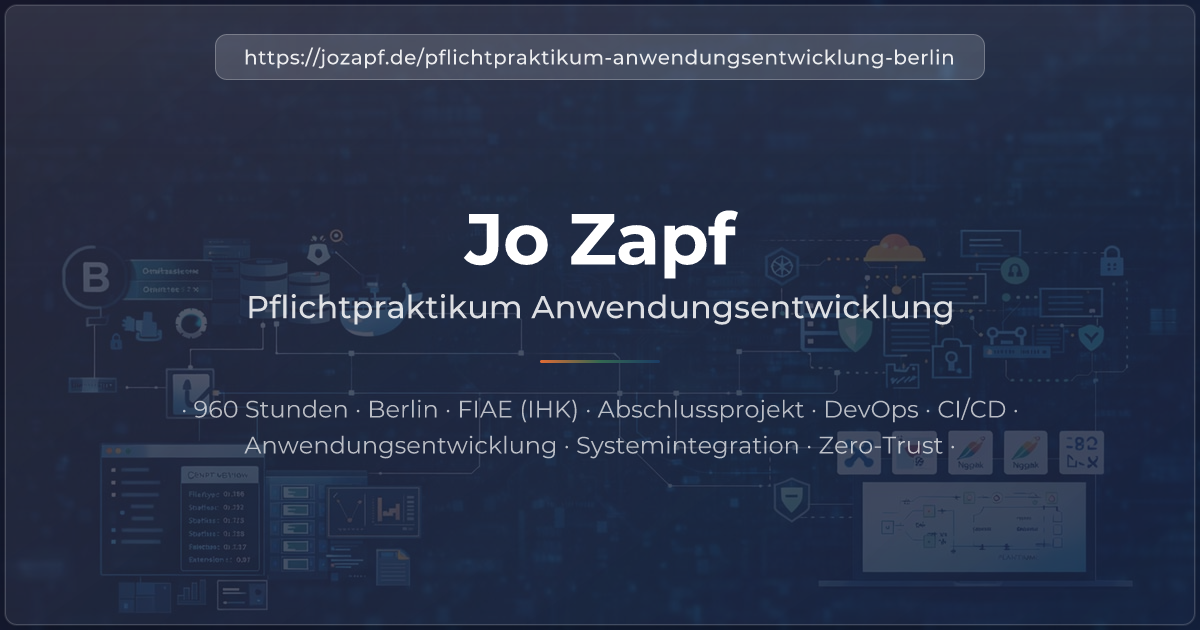
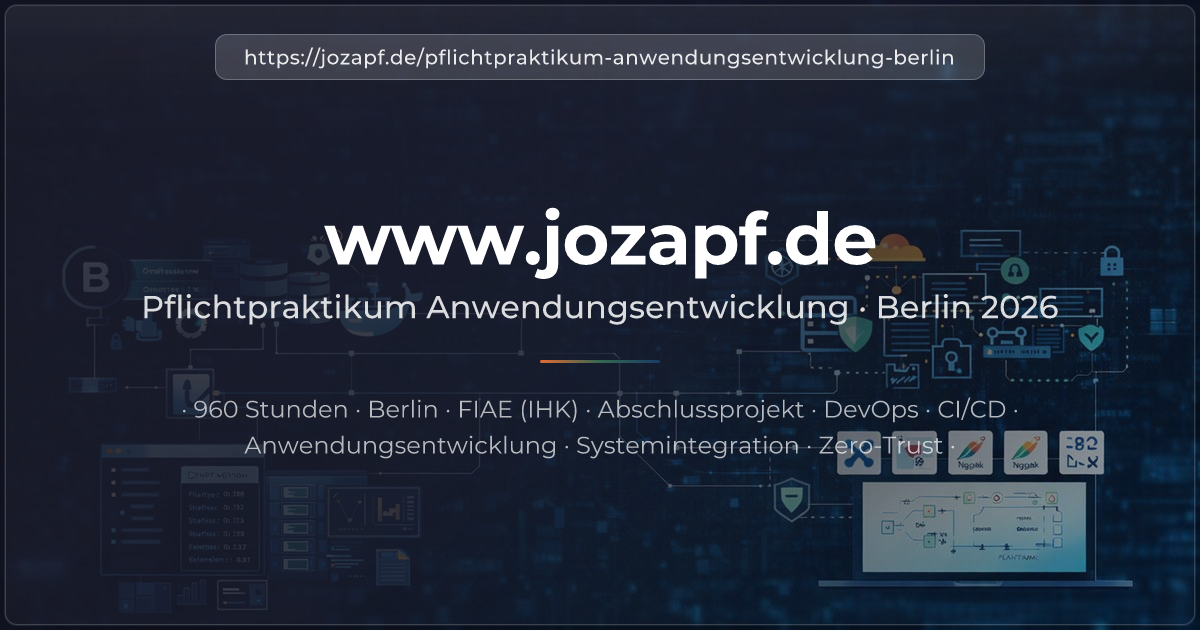
docs: updating og-images & didactic comments on scripts/generate-og-images.ts

diff --git a/scripts/generate-og-images.ts b/scripts/generate-og-images.ts
@@ -45,30 +45,30 @@ const BG_IMAGE_PRAKTIKUM = join(PROJECT_ROOT, 'assets-deploy', 'jpg', 'og_prakti
 // Content for each language
 const CONTENT = {
   de: {
-    title: 'Jo Zapf',
+    title: 'www.jozapf.de',
     subtitle: 'Webentwicklung & Anwendungsentwicklung',
     description: 'Digitale Lösungen aus Berlin: Webentwicklung, Anwendungsentwicklung, Cross-Media-Design und sichere Cloud-Infrastruktur.',
     badge: 'https://jozapf.de',
     filename: 'og-home-de.png',
   },
   en: {
-    title: 'Jo Zapf',
+    title: 'www.jozapf.de',
     subtitle: 'Web Development & Application Development',
     description: 'Digital solutions from Berlin: Web development, application development, cross-media design and secure cloud infrastructure.',
     badge: 'https://jozapf.de',
     filename: 'og-home-en.png',
   },
   'praktikum-de': {
-    title: 'Jo Zapf',
-    subtitle: 'Pflichtpraktikum Anwendungsentwicklung',
+    title: 'www.jozapf.de',
+    subtitle: 'Pflichtpraktikum Anwendungsentwicklung · Berlin 2026',
     description: '· 960 Stunden · Berlin · FIAE (IHK) · Abschlussprojekt · DevOps · CI/CD · Anwendungsentwicklung · Systemintegration · Zero-Trust ·',
     badge: 'https://jozapf.de/pflichtpraktikum-anwendungsentwicklung-berlin',
     filename: 'og-praktikum-de.png',
   },
   'praktikum-en': {
-    title: 'Jo Zapf',
-    subtitle: 'Mandatory Internship · Application Development',
-    description: '960 hours · Berlin · FIAE (IHK) · final project · DevOps · CI/CD · application development ·system integration · zero-trust ·',
+    title: 'www.jozapf.de',
+    subtitle: 'Mandatory Internship · Application Development · Berlin 2026',
+    description: '960 hours · Berlin · FIAE (IHK) · final project · DevOps · CI/CD · application development · system integration · zero-trust ·',
     badge: 'https://jozapf.de/en/pflichtpraktikum-anwendungsentwicklung-berlin',
     filename: 'og-praktikum-en.png',
   },
@@ -99,6 +99,21 @@ function loadImageAsBase64(imagePath: string): string {
 // ============================================================================
 // OG IMAGE TEMPLATE (JSX-like structure for Satori)
 // ============================================================================
+//
+// Visual layer stack (bottom to top):
+//
+//   1. Background Image    – full-bleed photo, covers entire 1200×630 canvas
+//   2. Dark Overlay         – semi-transparent gradient, dims the photo for text contrast
+//   3. Glassmorphism Card   – near-fullsize frosted card (1190×620), holds all text
+//   4. Glossy Overlay       – subtle top-half shine on the card (faux light reflection)
+//   5. Content elements     – badge, title, subtitle, divider, description
+//
+// Color system:
+//   rgba(r,g,b, ALPHA) – alpha controls opacity: 0.0 = invisible, 1.0 = fully opaque
+//   #ffffff = white, used at varying alpha levels for the glass effect
+//
+// Satori constraint: no CSS classes, no shorthand – every style must be an inline object.
+// ============================================================================
 
 interface OGContentProps {
   title: string;
@@ -108,23 +123,25 @@ interface OGContentProps {
 }
 
 function createOGTemplate(content: OGContentProps, bgImageDataUrl: string) {
-  // Satori uses React-like JSX but returns plain objects
-  // All styles must be inline objects, no CSS classes
   return {
     type: 'div',
     props: {
+      // ROOT CONTAINER – the full 1200×630 canvas
       style: {
         width: '100%',
         height: '100%',
         display: 'flex',
-        alignItems: 'center',
-        justifyContent: 'center',
-        position: 'relative',
+        alignItems: 'center',       // vertical center
+        justifyContent: 'center',   // horizontal center
+        position: 'relative',       // anchor for absolute children
         fontFamily: 'Montserrat',
-        overflow: 'hidden',
+        overflow: 'hidden',         // clip anything outside canvas
       },
       children: [
-        // Background Image (the abstract shapes motif)
+
+        // ── LAYER 1: BACKGROUND IMAGE ──────────────────────────────────
+        // Fills entire canvas. objectFit:'cover' crops to fit (no distortion).
+        // Which image is used depends on bgMap in main() – home vs praktikum.
         {
           type: 'img',
           props: {
@@ -139,7 +156,18 @@ function createOGTemplate(content: OGContentProps, bgImageDataUrl: string) {
             },
           },
         },
-        // Dark overlay for better text contrast
+
+        // ── LAYER 2: DARK OVERLAY ──────────────────────────────────────
+        // Semi-transparent gradient over the photo. Makes white text readable.
+        // Direction: 135deg = top-left → bottom-right diagonal.
+        //
+        // Color stops:
+        //   rgba(26,26,46, 0.75)  – dark navy,    75% opaque (top-left, lightest)
+        //   rgba(22,33,62, 0.85)  – dark blue,    85% opaque (center)
+        //   rgba(15,52,96, 0.85)  – deeper blue,  85% opaque (bottom-right, darkest)
+        //
+        // ↑ Increase alpha values → darker overlay → more contrast, less photo visible.
+        // ↓ Decrease alpha values → lighter overlay → more photo visible, less contrast.
         {
           type: 'div',
           props: {
@@ -149,31 +177,46 @@ function createOGTemplate(content: OGContentProps, bgImageDataUrl: string) {
               left: 0,
               right: 0,
               bottom: 0,
-              background: 'linear-gradient(135deg, rgba(26,26,46,0.75) 0%, rgba(22,33,62,0.85) 100%, rgba(15,52,96,0.85) 100%)',
+              background: 'linear-gradient(135deg, rgba(19, 19, 34, 0.85) 50%, rgba(0, 0, 0, 0.25) 100%, rgba(15,52,96,0.85) 100%)',
             },
           },
         },
-        // Main Card
+
+        // ── LAYER 3: GLASSMORPHISM CARD ────────────────────────────────
+        // A frosted-glass card that sits centered on the canvas.
+        // Nearly fullsize (1190×620 inside 1200×630) – 5px visible edge on each side.
         {
           type: 'div',
           props: {
             style: {
-              width: 1190,
-              height: 620,
-              borderRadius: 12,
-              padding: '48px 56px',
+              width: 1190,                // card width in px
+              height: 620,                // card height in px
+              borderRadius: 12,           // rounded corners
+              padding: '48px 56px',       // inner spacing (top/bottom, left/right)
               display: 'flex',
-              flexDirection: 'column',
-              alignItems: 'center',
-              justifyContent: 'center',
-              position: 'relative',
-              // Glass-morphism card
-              background: 'linear-gradient(145deg, rgba(255,255,255,0.075) 0%, rgba(255,255,255,0.01) 100%)',
+              flexDirection: 'column',    // stack children vertically
+              alignItems: 'center',       // center children horizontally
+              justifyContent: 'center',   // center children vertically
+              position: 'relative',       // anchor for glossy overlay + badge
+
+              // Card fill: white at 7.5% → 1% opacity = barely visible frosted tint
+              // 145deg = top-left to bottom-right, slightly steeper than the dark overlay
+              background: 'linear-gradient(145deg, rgba(255,255,255,0.035) 0%, rgba(255,255,255,0.01) 100%)',
+
+              // Card border: white at 18% opacity = faint edge line
               border: '1px solid rgba(255,255,255,0.18)',
+
+              // Two shadows stacked:
+              //   1) Deep drop shadow: black 50% opacity, 25px blur, pushed 50px down
+              //   2) Thin inner glow: white 10% opacity, 1px solid ring
               boxShadow: '0 25px 50px -12px rgba(0,0,0,0.5), 0 0 0 1px rgba(255,255,255,0.1)',
             },
             children: [
-              // Glossy overlay (top shine)
+
+              // ── LAYER 4: GLOSSY OVERLAY ──────────────────────────────
+              // Covers the top 50% of the card. Simulates light hitting a glass surface.
+              // Gradient: white at 5% opacity at top → 2% at 35% height → fully transparent.
+              // Increase 0.05/0.02 for a shinier look, decrease for subtler effect.
               {
                 type: 'div',
                 props: {
@@ -182,64 +225,81 @@ function createOGTemplate(content: OGContentProps, bgImageDataUrl: string) {
                     top: 0,
                     left: 0,
                     right: 0,
-                    height: '50%',
-                    borderRadius: '12px 12px 0 0',
+                    height: '25%',                // covers top half of card
+                    borderRadius: '12px 12px 0 0', // match card's top corners
                     background: 'linear-gradient(180deg, rgba(255,255,255,0.05) 0%, rgba(255,255,255,0.02) 35%, transparent 100%)',
                   },
                 },
               },
-              // Badge
+
+              // ── BADGE ────────────────────────────────────────────────
+              // Small pill label pinned to top of card. Shows domain/URL.
+              // White bg at 15% opacity, border at 25% opacity.
+              // Text: white at 90% opacity, Montserrat Medium (500).
               {
                 type: 'div',
                 props: {
                   style: {
                     position: 'absolute',
-                    top: 28,
+                    top: 28,               // 28px from card top
                     display: 'flex',
-                    padding: '10px 28px',
-                    borderRadius: 12,
-                    background: 'rgba(255,255,255,0.15)',
-                    border: '1px solid rgba(255,255,255,0.25)',
+                    padding: '10px 28px',  // vertical, horizontal padding
+                    borderRadius: 12,      // rounded pill shape
+                    background: 'rgba(255,255,255,0.15)',   // 15% white fill
+                    border: '1px solid rgba(255,255,255,0.25)', // 25% white edge
                     fontSize: 20,
-                    fontWeight: 500,
-                    color: 'rgba(255,255,255,0.9)',
+                    fontWeight: 500,       // Medium weight
+                    color: 'rgba(255,255,255,0.9)',  // 90% white text
                     letterSpacing: '0.5px',
                   },
                   children: content.badge,
                 },
               },
-              // Title
+
+              // ── TITLE ────────────────────────────────────────────────
+              // Main headline. Largest text on the image.
+              // 72px, Bold (700), fully opaque white.
+              // letterSpacing: -1px tightens character spacing for a modern look.
               {
                 type: 'div',
                 props: {
                   style: {
                     marginTop: 32,
-                    fontSize: 72,
-                    fontWeight: 700,
-                    color: '#ffffff',
+                    fontSize: 72,          // ~30 chars max before overflow
+                    fontWeight: 700,       // Bold
+                    color: '#ffffff',       // 100% white – highest visual weight
                     textAlign: 'center',
-                    lineHeight: 1.1,
-                    letterSpacing: '-1px',
+                    lineHeight: 1.1,       // tight line spacing
+                    letterSpacing: '-1px', // slightly condensed
                   },
                   children: content.title,
                 },
               },
-              // Subtitle
+
+              // ── SUBTITLE ─────────────────────────────────────────────
+              // Secondary text below title.
+              // 32px, Medium (500), white at 85% opacity = slightly dimmer than title.
               {
                 type: 'div',
                 props: {
                   style: {
                     marginTop: 8,
-                    fontSize: 32,
-                    fontWeight: 500,
-                    color: 'rgba(255,255,255,0.85)',
+                    fontSize: 32,          // ~50 chars max before overflow
+                    fontWeight: 500,       // Medium
+                    color: 'rgba(255,255,255,0.85)', // 85% white – visual hierarchy below title
                     textAlign: 'center',
                     lineHeight: 1.3,
                   },
                   children: content.subtitle,
                 },
               },
-              // Divider line
+
+              // ── DIVIDER ──────────────────────────────────────────────
+              // Thin horizontal accent line between subtitle and description.
+              // 120px wide, 3px tall. Gradient: orange → green → blue (brand colors).
+              //   #e26b34 = warm orange (left)
+              //   #336851 = muted green  (center)
+              //   #1b3c65 = deep blue    (right)
               {
                 type: 'div',
                 props: {
@@ -252,18 +312,22 @@ function createOGTemplate(content: OGContentProps, bgImageDataUrl: string) {
                   },
                 },
               },
-              // Description
+
+              // ── DESCRIPTION ──────────────────────────────────────────
+              // Longer text below divider. Wraps at 900px max width (~2 lines).
+              // 24px, Regular (400), white at 70% opacity = clearly subordinate to title/subtitle.
+              // ~150 chars max before it starts to look crowded.
               {
                 type: 'div',
                 props: {
                   style: {
                     marginTop: 28,
-                    maxWidth: 900,
+                    maxWidth: 900,         // text wrap boundary
                     fontSize: 24,
-                    fontWeight: 400,
-                    color: 'rgba(255,255,255,0.7)',
+                    fontWeight: 400,       // Regular
+                    color: 'rgba(255,255,255,0.7)', // 70% white – lowest in text hierarchy
                     textAlign: 'center',
-                    lineHeight: 1.5,
+                    lineHeight: 1.5,       // comfortable reading spacing
                   },
                   children: content.description,
                 },
